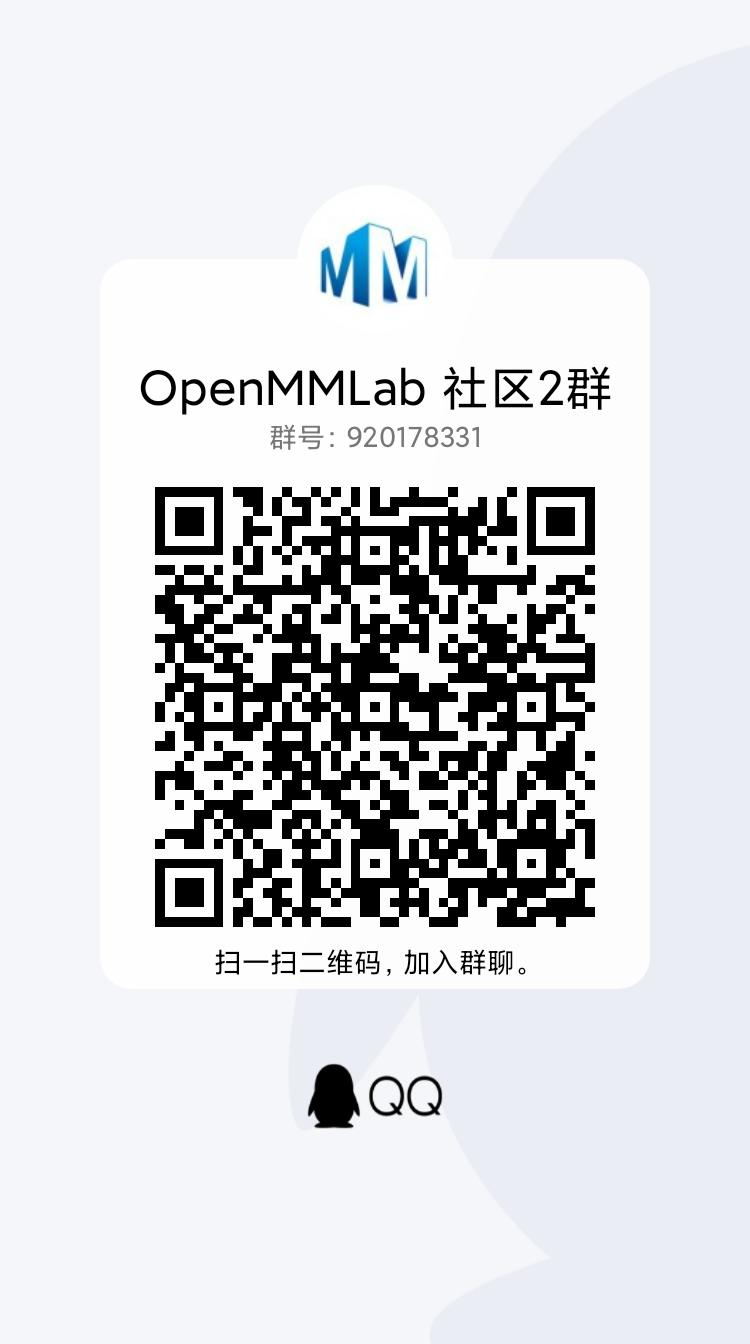
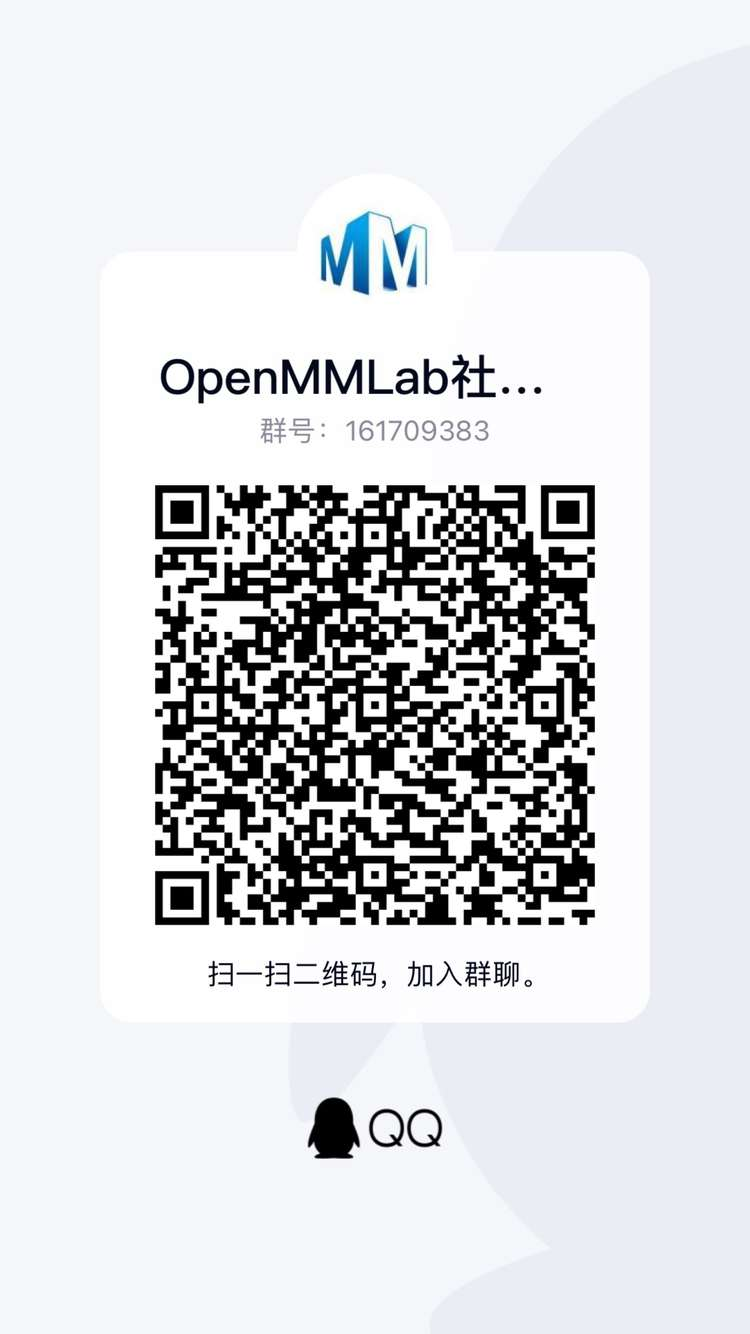
[update]:update qq_group_qr_code

Changed region(s): [[0.184, 0.1537, 0.828, 0.7376], [0.3987, 0.7684, 0.6133, 0.8913]]

diff --git a/README_zh-CN.md b/README_zh-CN.md
@@ -257,7 +257,7 @@ c. 安装完整版并且编译 onnxruntime 的自定义算子
 `MMCV` 目前以 Apache 2.0 的许可证发布，但是其中有一部分功能并不是使用的 Apache2.0 许可证，我们在 [许可证](LICENSES.md) 中详细地列出了这些功能以及他们对应的许可证，如果您正在从事盈利性活动，请谨慎参考此文档。
 ## 欢迎加入 OpenMMLab 社区
 
-扫描下方的二维码可关注 OpenMMLab 团队的 [知乎官方账号](https://www.zhihu.com/people/openmmlab)，加入 OpenMMLab 团队的 [官方交流 QQ 群](https://jq.qq.com/?_wv=1027&k=GJP18SjI)
+扫描下方的二维码可关注 OpenMMLab 团队的 [知乎官方账号](https://www.zhihu.com/people/openmmlab)，加入 OpenMMLab 团队的 [官方交流 QQ 群](https://jq.qq.com/?_wv=1027&k=3ijNTqfg)
 
 <div align="center">
 <img src="docs/en/_static/zhihu_qrcode.jpg" height="400" />  <img src="docs/en/_static/qq_group_qrcode.jpg" height="400" /> <img src="docs/en/_static/wechat_qrcode.jpg" height="400" />
